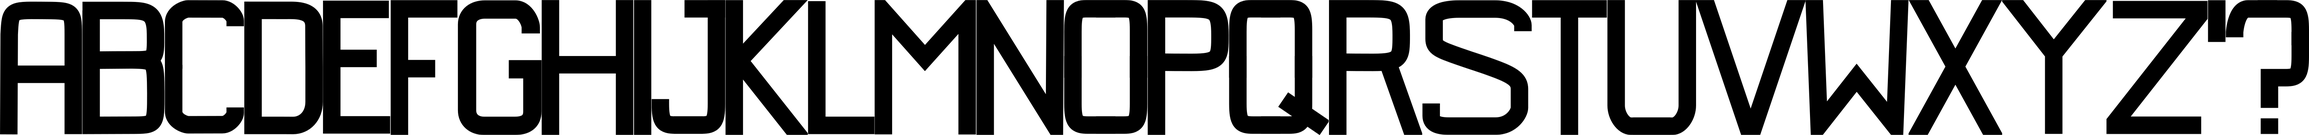
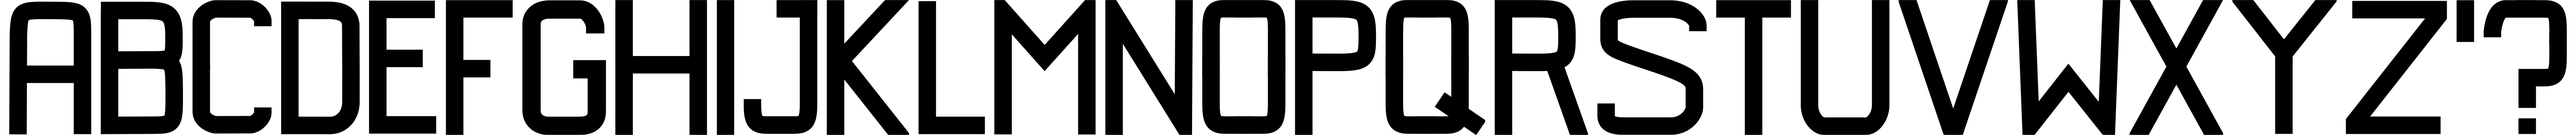
A gutter between the glyphs on the sheet
They were packed edge to edge. The page scales the whole sheet down and shows
one glyph's width of it through a clipping box, so at every boundary the filter
was sampling the neighbouring letter and smearing a sliver of it down the side
of the box -- which is what the artifacting on the letters was.

24 transparent columns between them, wider than the filter reaches at the
smallest size the sheet is shown at. Costs 700px of sheet and 6KB, and changes
no layout: the glyph metrics are still its own ink, so every line sets to the
same width as before (336, 862, 451, 671 on the four checked).

Claude-Session: https://claude.ai/code/session_01XhFLHjvBijGjrqEu8YRa3e

Changed region(s): [[0.0, 0.0, 1.0, 1.0], [0.9369, 0.875, 0.9993, 1.0], [0.6246, 0.4375, 0.6558, 0.5]]

diff --git a/web/ballysanser.js b/web/ballysanser.js
@@ -5,121 +5,121 @@
  * its scripts the old way, as graph.js and regions.js do. */
 const BALLYSANSER = {
   "sheet": "img/ballysanser.png",
-  "sheetWidth": 6020,
+  "sheetWidth": 6716,
   "band": 352,
   "tracking": 0.07,
   "wordSpace": 0.25,
   "glyphs": {
     "a": {
-      "x": 0,
+      "x": 24,
       "w": 214
     },
     "b": {
-      "x": 214,
+      "x": 262,
       "w": 215
     },
     "c": {
-      "x": 429,
+      "x": 501,
       "w": 207
     },
     "d": {
-      "x": 636,
+      "x": 732,
       "w": 206
     },
     "e": {
-      "x": 842,
+      "x": 962,
       "w": 176
     },
     "f": {
-      "x": 1018,
+      "x": 1162,
       "w": 175
     },
     "g": {
-      "x": 1193,
+      "x": 1361,
       "w": 219
     },
     "h": {
-      "x": 1412,
+      "x": 1604,
       "w": 240
     },
     "i": {
-      "x": 1652,
+      "x": 1868,
       "w": 47
     },
     "j": {
-      "x": 1699,
+      "x": 1939,
       "w": 192
     },
     "k": {
-      "x": 1891,
+      "x": 2155,
       "w": 215
     },
     "l": {
-      "x": 2106,
+      "x": 2394,
       "w": 174
     },
     "m": {
-      "x": 2280,
+      "x": 2592,
       "w": 265
     },
     "n": {
-      "x": 2545,
+      "x": 2881,
       "w": 229
     },
     "o": {
-      "x": 2774,
+      "x": 3134,
       "w": 218
     },
     "p": {
-      "x": 2992,
+      "x": 3376,
       "w": 212
     },
     "q": {
-      "x": 3204,
+      "x": 3612,
       "w": 260
     },
     "r": {
-      "x": 3464,
+      "x": 3896,
       "w": 244
     },
     "s": {
-      "x": 3708,
+      "x": 4164,
       "w": 286
     },
     "t": {
-      "x": 3994,
+      "x": 4474,
       "w": 196
     },
     "u": {
-      "x": 4190,
+      "x": 4694,
       "w": 232
     },
     "v": {
-      "x": 4422,
+      "x": 4950,
       "w": 285
     },
     "w": {
-      "x": 4707,
+      "x": 5259,
       "w": 269
     },
     "x": {
-      "x": 4976,
+      "x": 5552,
       "w": 244
     },
     "y": {
-      "x": 5220,
+      "x": 5820,
       "w": 272
     },
     "z": {
-      "x": 5492,
+      "x": 6116,
       "w": 264
     },
     "'": {
-      "x": 5756,
+      "x": 6404,
       "w": 47
     },
     "?": {
-      "x": 5803,
+      "x": 6475,
       "w": 217
     }
   }

diff --git a/scripts/build_typeface.py b/scripts/build_typeface.py
@@ -57,6 +57,12 @@ INK_FLOOR = 255 * 4
 # A row this white, right across the sheet, is one of the two rules.
 RULE_WHITE = 0.5
 
+# Transparent columns between the glyphs on the sheet, so that scaling it down
+# blends each one's edge with nothing rather than with its neighbour. Generous:
+# it costs 700px of sheet width and a few KB, and too little would show as a
+# smear along the side of every letter.
+GUTTER = 24
+
 # Spacing, as a fraction of the band height, since that is the one dimension
 # every glyph shares. Neither is measurable from the drawing: the gaps in it
 # are layout, not tracking, and there is no space character to measure. Both
@@ -128,11 +134,18 @@ def main() -> int:
                          f'either the order is wrong or two letters are touching')
 
     # --- the sheet ----------------------------------------------------------
+    # Packed with a transparent gutter between the glyphs, not edge to edge.
+    # The page scales the whole sheet down and shows one glyph's width of it
+    # through a clipping box; with the glyphs touching, the filter at each
+    # boundary samples the neighbouring letter and smears a sliver of it into
+    # the box. The gutter gives it transparency to blend with instead, and has
+    # to be wider than the filter reaches -- at the smallest size the sheet is
+    # shown at, that is around thirteen source pixels.
     widths = [x1 - x0 + 1 for x0, x1 in groups]
-    sheet_w = sum(widths)
+    sheet_w = sum(widths) + GUTTER * (len(widths) + 1)
     out = bytearray(sheet_w * band * 4)
     glyphs = {}
-    at = 0
+    at = GUTTER
     for ch, (x0, x1) in zip(ORDER, groups):
         gw = x1 - x0 + 1
         for y in range(band):
@@ -140,11 +153,10 @@ def main() -> int:
             dst = (y * sheet_w + at) * 4
             for x in range(gw):
                 alpha = ink[src + x0 + x]
-                # Black, with the drawing's darkness as its alpha. The colour
-                # is a stand-in: used as a mask, only the alpha is read.
+                # Black, with the drawing's darkness as its alpha.
                 out[dst + x * 4 + 3] = alpha
         glyphs[ch] = {'x': at, 'w': gw}
-        at += gw
+        at += gw + GUTTER
 
     os.makedirs(os.path.dirname(OUT_PNG), exist_ok=True)
     save_rgba(OUT_PNG, sheet_w, band, out)
